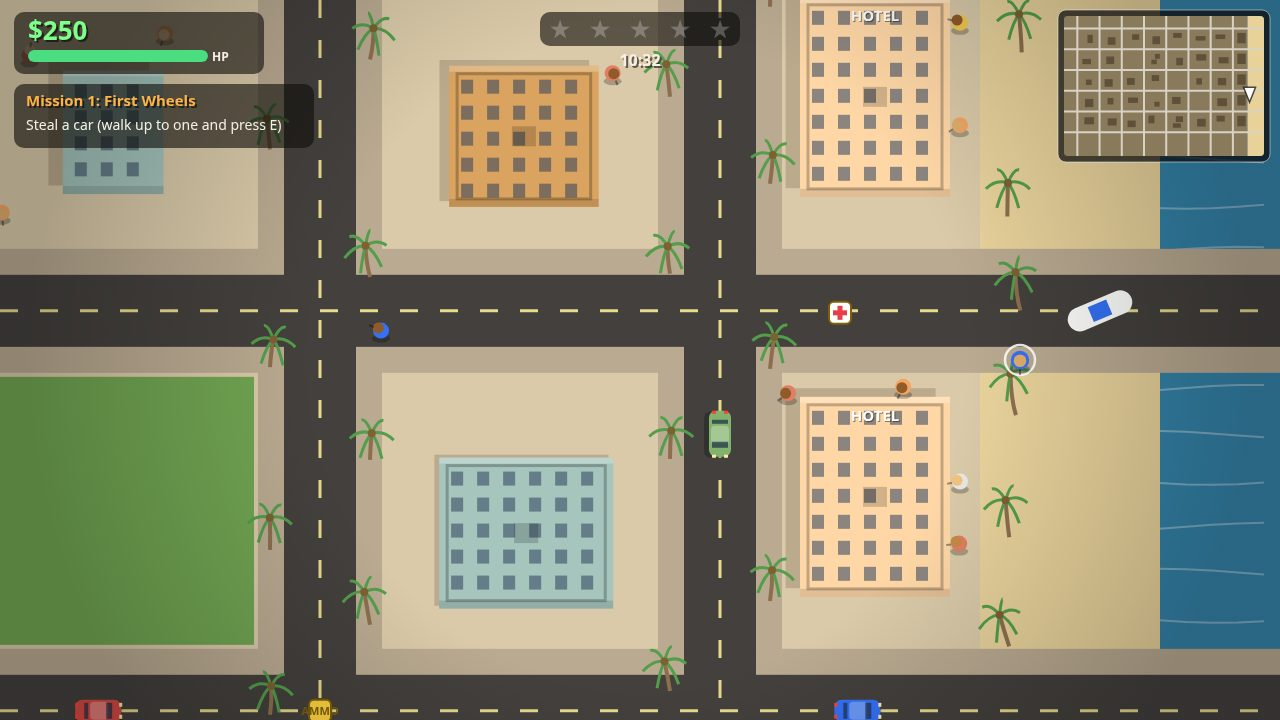
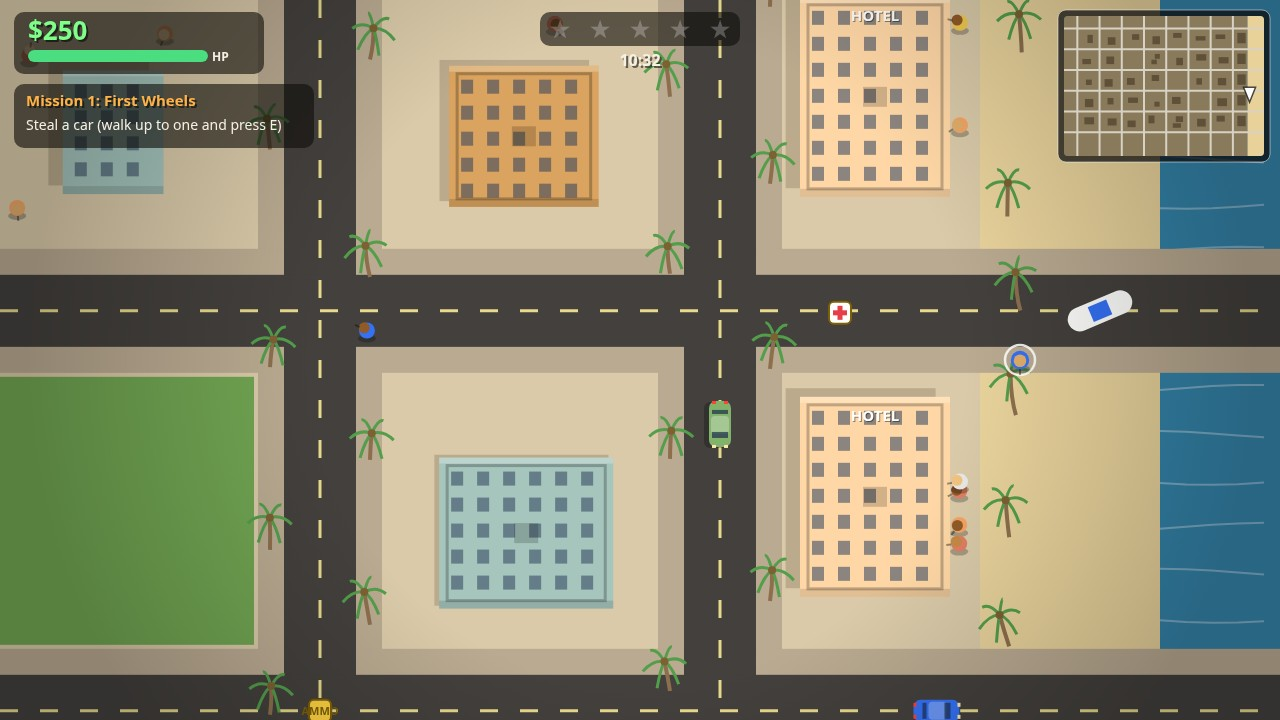
Playtest fixes: make M4 escapable, busted reachable, routes stay on roads
End-to-end Playwright playthrough of M1-M6 (seed 7) found the chase
unwinnable and the bust unreachable; these fixes make both work and
re-render the four screenshots from the fixed game:

- world.js routeWaypoints: drive along the start's own road first so
  every leg stays on a road centreline (was cutting through buildings
  when starting on an avenue).
- game.js: a wrecked car takes no throttle, so it coasts to a stop
  instead of crawling at negative health.
- entities.js: pedestrians look both ways before crossing, hurry
  across when a car bears down, and sidestep out of a car's path, so
  the player no longer eats a wanted star for an unavoidable hit.
- police.js: patrol cars take a wall-scrape speed cut (they were
  cutting through blocks at full speed), spawn 700px out, ram for
  half damage, and no longer hurt the player on foot — the bust
  (3s sitting on the player) is the consequence of being caught on
  foot, and at 14/s the player was wasted before it could trigger.
- police.js wanted decay: 'seen' is 250px not 420px, and a sighting
  costs quiet time instead of resetting it to zero.
- config.js: police top speed 350 (player 560), car health 200.

Verified: full M1-M6 pass (cash 650/1350/2550/3450/5700/10700),
wasted and busted respawns, save/load mid-mission, vault-grab hold,
zero console/page errors, dossier byte-identical on two runs,
screenshots deterministic, kit check 4 passed 0 failed.

diff --git a/game/src/police.js b/game/src/police.js
@@ -16,7 +16,10 @@ export function createPolice(city, random) {
   }
 
   function spawnPoliceCar(state) {
-    const p = city.randomRoadPoint(random, state.player.x, state.player.y, 420);
+    // Spawn far enough out that the player has a real chance to get moving:
+    // a carjacked car starts slow, and a cop spawning on top of it rams the
+    // car to pieces before the player ever reaches speed.
+    const p = city.randomRoadPoint(random, state.player.x, state.player.y, 700);
     const car = makeCar(random, p.x, p.y, 0, { kind: 'police', occupied: true, color: '#f5f5f5' });
     car.sirenPhase = random() * Math.PI * 2;
     police.push(car);
@@ -53,8 +56,13 @@ export function createPolice(city, random) {
     while (police.length > target) police.pop();
 
     // Wanted decay: quiet + unseen for a while, then one star at a time.
+    // "Seen" means a police car is actually close (250px) — at the old
+    // 420px a patrol car on the far side of a building still counted as
+    // seeing the player, so the quiet timer never accumulated on a ring
+    // route where a cop is always within 420px somewhere, and three stars
+    // could never decay no matter how well the player drove.
     const near = nearestPolice(player.x, player.y);
-    const seen = near && near.dist < 420;
+    const seen = near && near.dist < 250;
     if (state.wanted > 0 && !seen) {
       quietTimer += dt;
       if (quietTimer > WANTED.decayQuietSeconds) {
@@ -69,7 +77,13 @@ export function createPolice(city, random) {
         }
       }
     } else {
-      quietTimer = 0;
+      // A brief sighting costs quiet time but does not wipe it out entirely.
+      // The heat dies down if the player is mostly out of sight: a single
+      // corner encounter, where the police close in for a second or two,
+      // should not reset 25 seconds of clean driving — otherwise no route
+      // with a turn in it can ever lose the cops, and the mission is
+      // unwinnable by driving.
+      quietTimer = Math.max(0, quietTimer - dt * 2);
       decayTimer = 0;
     }
 
@@ -86,7 +100,24 @@ export function createPolice(city, random) {
       const steer = Math.max(-1, Math.min(1, diff * 2.2));
       const throttle = dist > 90 ? 1 : 0.4;
       stepCarPhysics(car, throttle, steer, false, dt);
-      city.resolveCircle(car, CAR.radius);
+      // A patrol car is slower than a getaway car (WANTED.policeMaxSpeed).
+      if (car.speed > WANTED.policeMaxSpeed) car.speed = WANTED.policeMaxSpeed;
+      const scrape = city.resolveCircle(car, CAR.radius);
+      if (scrape) {
+        // Crashed into a building while cutting a corner: a patrol car that
+        // drives straight through a block is crashing into it, not brushing
+        // it. This is the police's real weakness — they steer straight at the
+        // player with no pathfinding, so a 90-degree turn around a block
+        // leaves them buried in the wall while the player drives away. The
+        // cut is harsh and the cooldown short, so a car pressed against a
+        // wall stays slow instead of re-accelerating between cuts.
+        const hitSpeed = Math.abs(car.speed);
+        car.scrapeCooldown = Math.max(0, (car.scrapeCooldown || 0) - dt);
+        if (hitSpeed > 200 && car.scrapeCooldown <= 0) {
+          car.scrapeCooldown = 0.3;
+          car.speed *= 0.15;
+        }
+      }
       // Ram: shove the player's car, or hurt the player on foot. The speed cut
       // only lands on impact (cooldown-gated) so a cop glued to the bumper
       // cannot pin the player's speed to zero.
@@ -103,17 +134,21 @@ export function createPolice(city, random) {
           if (car.ramCooldown <= 0) {
             car.ramCooldown = 0.6;
             player.car.speed *= 0.82;
-            player.car.health -= 4;
+            player.car.health -= 2;
           }
-          player.car.health -= 6 * dt;
+          player.car.health -= 3 * dt;
           if (player.car.health <= 0 && player.car.smoke === 0) {
             player.car.smoke = 1;
             state.message = 'Your car is wrecked — get out!';
             state.messageTimer = 3;
           }
         } else {
-          player.health -= 14 * dt;
-          player.lastDamage = state.elapsed;
+          // On foot the cop shoves the player but does not hurt them: the
+          // consequence of being caught on foot is the bust (3s sitting on
+          // the player), not being run down. At 14/s the player was wasted
+          // in ~7s of contact while the bust timer — which needs a steady
+          // 3s under 46px — kept resetting as the shove pushed them apart,
+          // so a busted was unreachable and every foot chase ended wasted.
           player.x += (dx / dist) * 60 * dt;
           player.y += (dy / dist) * 60 * dt;
           city.resolveCircle(player, 11);

diff --git a/game/src/entities.js b/game/src/entities.js
@@ -225,11 +225,105 @@ export function createEntities(city, random) {
         ped.target = city.randomSidewalkPoint(random);
         continue;
       }
-      ped.x += (dx / d) * ped.speed * dt;
-      ped.y += (dy / d) * ped.speed * dt;
+      // Sidestep: a pedestrian a car is bearing down on gets out of its
+      // path, whether they are on the road or on the sidewalk. A car that
+      // mounts the sidewalk at a corner should not mow down a pedestrian
+      // who could have stepped aside — the player eats a wanted star for a
+      // hit they could not have avoided, and the star makes the escape
+      // that follows unwinnable. The ped steps directly away from the
+      // car's line of travel (the component of their offset from the car
+      // that is perpendicular to the car's heading).
+      const threat = closeThreat(ped);
+      if (threat) {
+        const s = threat.speed >= 0 ? 1 : -1;
+        const dirX = Math.cos(threat.angle) * s;
+        const dirY = Math.sin(threat.angle) * s;
+        const rx = ped.x - threat.x;
+        const ry = ped.y - threat.y;
+        const along = rx * dirX + ry * dirY;
+        let px = rx - along * dirX;
+        let py = ry - along * dirY;
+        let plen = Math.hypot(px, py);
+        if (plen < 1) {
+          // Ped is on the car's line: pick either side.
+          px = -dirY;
+          py = dirX;
+          plen = 1;
+        }
+        ped.x += (px / plen) * ped.speed * 4 * dt;
+        ped.y += (py / plen) * ped.speed * 4 * dt;
+        ped.angle = Math.atan2(py / plen, px / plen);
+        city.resolveCircle(ped, 9);
+        continue;
+      }
+      const nx = ped.x + (dx / d) * ped.speed * dt;
+      const ny = ped.y + (dy / d) * ped.speed * dt;
+      // Look both ways: a pedestrian about to step off the curb onto the road
+      // waits if a car is coming. Otherwise they step out in front of a car
+      // at full speed and the player eats a wanted star for a hit they could
+      // not have avoided. Peds already on the road keep walking to clear it —
+      // and hurry across if a car is bearing down on them, since a car that
+      // accelerates after they commit can otherwise catch them mid-crossing.
+      if (!city.onRoad(ped.x, ped.y) && city.onRoad(nx, ny) && carComing(ped)) {
+        continue;
+      }
+      if (city.onRoad(ped.x, ped.y) && carComing(ped)) {
+        ped.x += (dx / d) * ped.speed * 4 * dt;
+        ped.y += (dy / d) * ped.speed * 4 * dt;
+      } else {
+        ped.x = nx;
+        ped.y = ny;
+      }
       ped.angle = Math.atan2(dy, dx);
       city.resolveCircle(ped, 9);
     }
+  }
+
+  /** Is a car about to reach this pedestrian's crossing? */
+  function carComing(ped) {
+    for (const car of cars) {
+      const spd = Math.abs(car.speed);
+      if (spd < 20) continue;
+      const s = car.speed >= 0 ? 1 : -1;
+      const dirX = Math.cos(car.angle) * s;
+      const dirY = Math.sin(car.angle) * s;
+      const rx = ped.x - car.x;
+      const ry = ped.y - car.y;
+      const along = rx * dirX + ry * dirY;
+      if (along <= 0) continue; // moving away from the pedestrian
+      const lateral = Math.abs(rx * dirY - ry * dirX);
+      if (lateral > 70) continue; // will pass to the side
+      // Reaches the crossing before the ped (52px/s over a 72px road, longer
+      // on a diagonal) clears it. Judge by the car's top-end speed, not just
+      // its current speed: a car that accelerates after the ped commits can
+      // otherwise catch them mid-crossing.
+      const judge = Math.max(spd, 300);
+      if (along / judge < 3.0) return true;
+    }
+    return false;
+  }
+
+  /**
+   * A car close enough that the pedestrian must sidestep now or be hit:
+   * heading toward them, within 250px along its path, and close enough
+   * laterally that it will not pass to the side. Returns the car, or null.
+   */
+  function closeThreat(ped) {
+    for (const car of cars) {
+      const spd = Math.abs(car.speed);
+      if (spd < 20) continue;
+      const s = car.speed >= 0 ? 1 : -1;
+      const dirX = Math.cos(car.angle) * s;
+      const dirY = Math.sin(car.angle) * s;
+      const rx = ped.x - car.x;
+      const ry = ped.y - car.y;
+      const along = rx * dirX + ry * dirY;
+      if (along <= 0 || along > 250) continue;
+      const lateral = Math.abs(rx * dirY - ry * dirX);
+      if (lateral > 70) continue;
+      return car;
+    }
+    return null;
   }
 
   function scarePeds(x, y) {

diff --git a/game/src/config.js b/game/src/config.js
@@ -38,7 +38,13 @@ export const CAR = {
   radius: 15,
   length: 46,
   width: 22,
-  health: 100,
+  // Sturdy enough to survive a chase: at 100 the car was wrecked by the
+  // rams and scrapes of a single 37-second escape, so losing the cops was
+  // decided by the health bar rather than the driving. At 150 it still
+  // died on the fourth lap of a two-star escape — the southwest corner,
+  // where the player must slow to turn, costs ~35 health a lap in rams
+  // and scrapes. 200 gives the margin to finish the escape.
+  health: 200,
 };
 
 export const TRAFFIC = { count: 22, speed: 150, speedJitter: 45, followGap: 58 };
@@ -51,6 +57,14 @@ export const WANTED = {
   // How many police cars are out at each wanted level.
   policePerStar: [0, 1, 2, 3, 4, 5],
   bustSeconds: 3,
+  // A getaway car is faster than a patrol car: on a clean straight the player
+  // gains ~200px/s, so a well-driven escape opens the gap and the heat can
+  // die down. At equal top speed the player could only ever hold the gap, and
+  // one bad corner lost the chase for good. The gap is wide on purpose: the
+  // police cut straight across the map (no pathfinding), so their route is
+  // shorter than the player's road route and their effective speed is higher
+  // than the cap alone suggests.
+  policeMaxSpeed: 350,
 };
 
 export const COMBAT = {

diff --git a/game/src/world.js b/game/src/world.js
@@ -192,8 +192,19 @@ export function createCity(random) {
       if (dd < d) { d = dd; tSy = sy; }
     }
     const points = [{ x: start.x, y: start.y }];
-    if (Math.abs(start.x - tAx) > 4) points.push({ x: tAx, y: start.y });
-    if (Math.abs(start.y - tSy) > 4) points.push({ x: tAx, y: tSy });
+    // The start sits on one road: if it is an avenue, drive along it to the
+    // target street first; if it is a street, drive along it to the target
+    // avenue first. Either way every leg stays on a road centreline. The old
+    // code always went along the start's y, which cuts straight through
+    // building blocks whenever the start is on an avenue.
+    const onAvenue = AVENUES.includes(start.x) && !STREETS.includes(start.y);
+    if (onAvenue) {
+      if (Math.abs(start.y - tSy) > 4) points.push({ x: start.x, y: tSy });
+      if (Math.abs(start.x - tAx) > 4) points.push({ x: tAx, y: tSy });
+    } else {
+      if (Math.abs(start.x - tAx) > 4) points.push({ x: tAx, y: start.y });
+      if (Math.abs(start.y - tSy) > 4) points.push({ x: tAx, y: tSy });
+    }
     points.push({ x: tx, y: ty });
     return points;
   }

diff --git a/game/src/game.js b/game/src/game.js
@@ -182,7 +182,10 @@ export function createGame(seed) {
     // Driving or walking.
     if (p.car) {
       const car = p.car;
-      const throttle = (input.up ? 1 : 0) + (input.down ? -1 : 0);
+      // A wrecked car is dead: no throttle, so it coasts to a stop and the
+      // wreck check below forces the player out. Without this, holding W
+      // overpowered the wreck drag and a car at negative health kept crawling.
+      const throttle = car.health <= 0 ? 0 : (input.up ? 1 : 0) + (input.down ? -1 : 0);
       const steer = (input.left ? -1 : 0) + (input.right ? 1 : 0);
       const before = { x: car.x, y: car.y };
       stepCarPhysics(car, throttle, steer, input.handbrake, dt);
